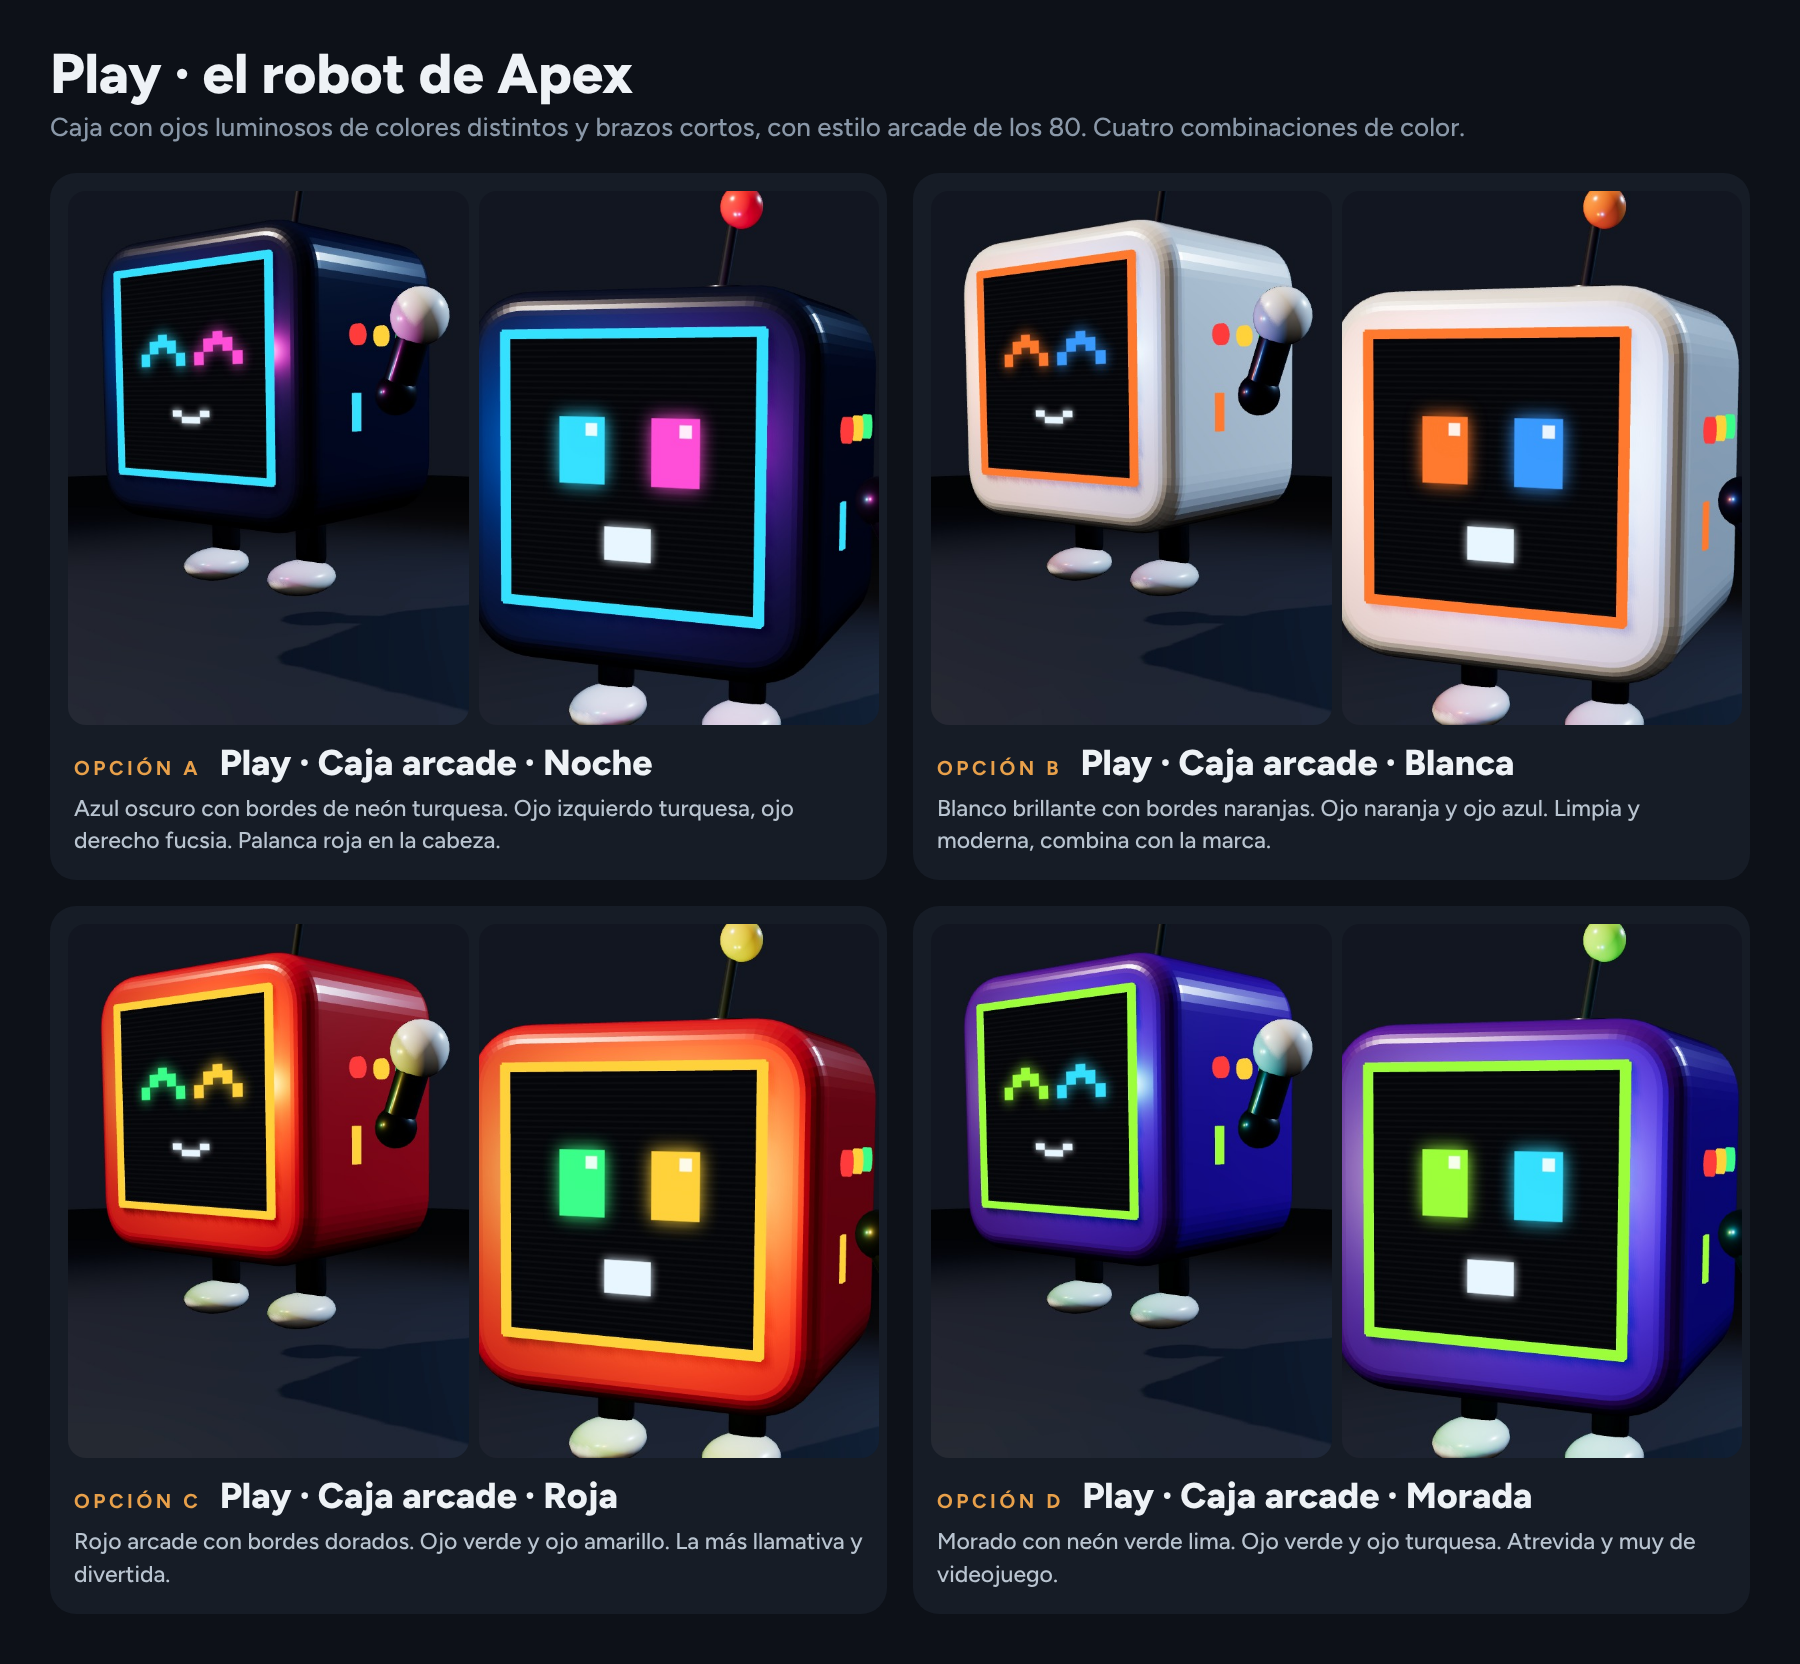
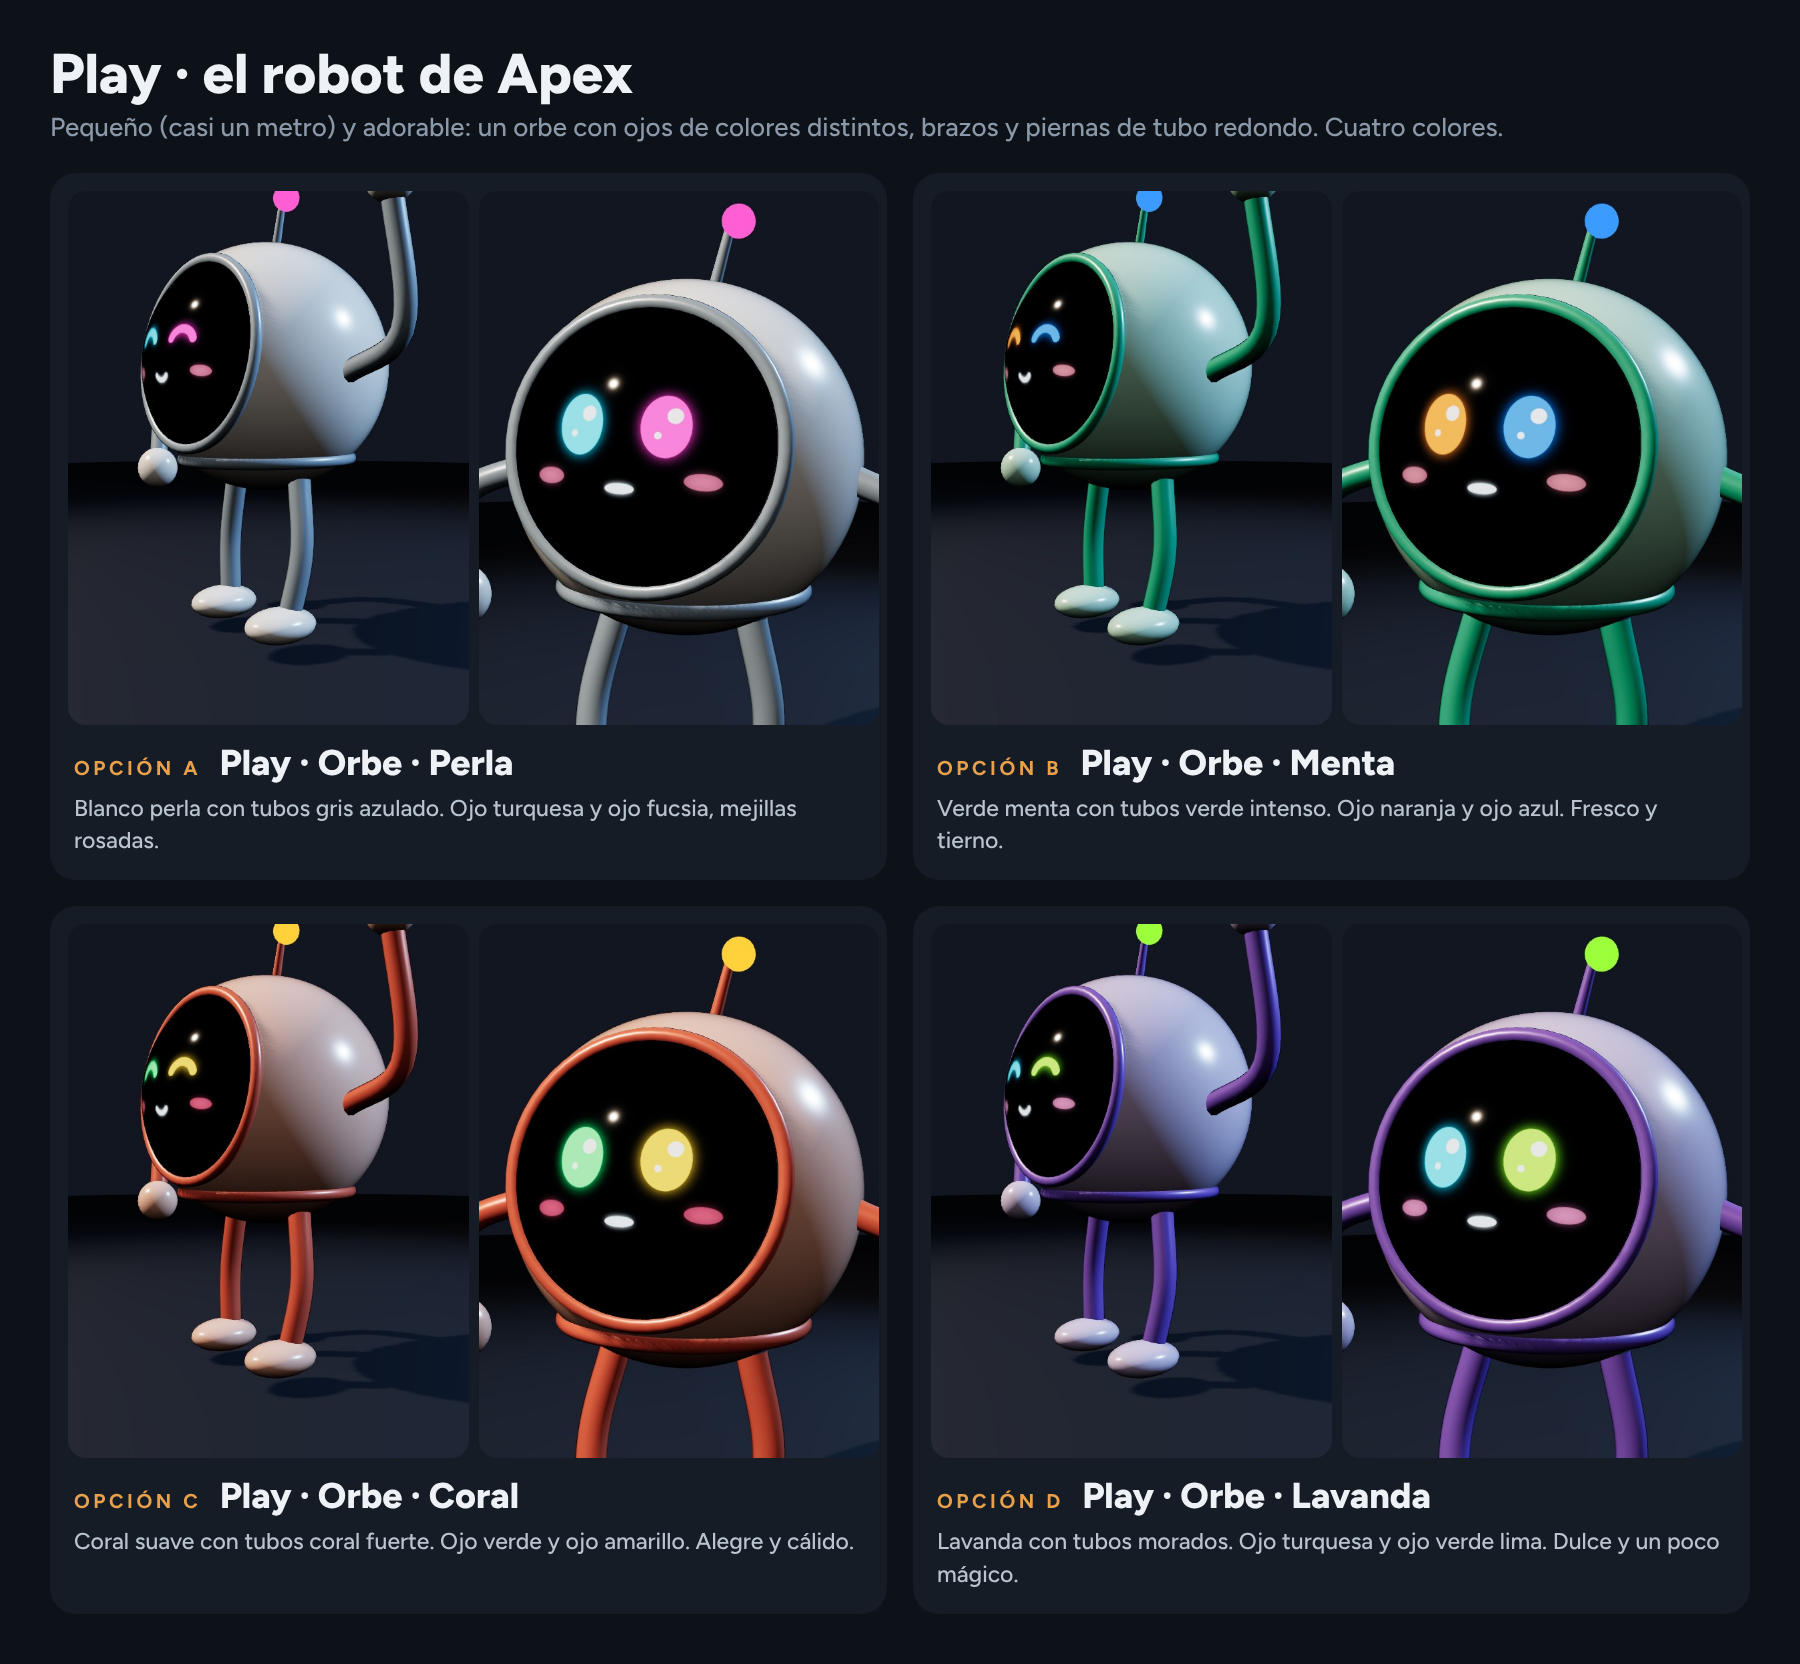
Robot «Play» como orbe pequeño y adorable: visor redondo, ojos de colores, brazos y piernas de tubo
Claude-Session: https://claude.ai/code/session_016r3h3eddn8zLcxunDkNv4C

diff --git a/produccion/redes/voxel/robot3d.js b/produccion/redes/voxel/robot3d.js
@@ -192,3 +192,53 @@ function robotPlayCaja(cfg = {}) {
     palo.rotation.z = Math.sin(t * 2.4) * 0.25; bola.position.x = 0.08 - Math.sin(t * 2.4) * 0.04; luzI.intensity = luzD.intensity = 0.5 + (s.voz || 0) * 0.6; pantalla(t, s.gesto || "normal", s.voz || 0); }
   return { raiz, animar };
 }
+
+// F · «Orbe adorable»: Play pequeño (≈ 0,9 m). Cuerpo de esfera brillante, visor negro con dos ojos grandes de colores distintos,
+// brazos y piernas de tubo redondo que se doblan (estilo manguera), manos y pies redondos, antena corta con bolita.
+function robotPlayOrbe(cfg = {}) {
+  const c = Object.assign({ cuerpo: "#f4f5f7", acento: "#9fb4c8", ojoI: "#36e0ff", ojoD: "#ff5fd2", mejillas: "#ff8fb3" }, cfg);
+  const raiz = new THREE.Group(), cuerpo = new THREE.Group(); raiz.add(cuerpo); const P = PLAY.P, A = PLAY.malla;
+  const mC = P(c.cuerpo, 0.25, 0.02, 1), mA = P(c.acento, 0.3, 0.1, 1);
+  const Y = 0.58, R = 0.27;                                            // centro y radio del orbe
+  A(cuerpo, new THREE.SphereGeometry(R, 64, 48), mC, 0, Y, 0);
+  const yb = 0.2, aro = A(cuerpo, new THREE.TorusGeometry(Math.sqrt(R * R - yb * yb) + 0.004, 0.013, 12, 64), mA, 0, Y - yb, 0); aro.rotation.x = PI / 2;
+  // visor y cara
+  const cv = document.createElement("canvas"); cv.width = 512; cv.height = 512; const g = cv.getContext("2d"), tex = new THREE.CanvasTexture(cv); tex.colorSpace = THREE.SRGBColorSpace;
+  const capa = new THREE.SphereGeometry(R * 1.006, 56, 28, 0, 2 * PI, 0, PI * 0.26); capa.rotateX(PI / 2);
+  { const pz = capa.attributes.position, uv = capa.attributes.uv, k = R * 1.006 * Math.sin(PI * 0.26); for (let i = 0; i < pz.count; i++) uv.setXY(i, pz.getX(i) / (2 * k) + 0.5, pz.getY(i) / (2 * k) + 0.5); uv.needsUpdate = true; }
+  const caraG = new THREE.Group(); caraG.position.set(0, Y, 0); caraG.rotation.x = -0.14; cuerpo.add(caraG);
+  const visor = A(caraG, capa, new THREE.MeshPhysicalMaterial({ map: tex, emissiveMap: tex, emissive: 0xffffff, emissiveIntensity: 1.05, color: 0x050608, roughness: 0.05, clearcoat: 1 }), 0, 0, 0);
+  const borde = A(caraG, new THREE.TorusGeometry(R * 1.006 * Math.sin(PI * 0.26), 0.012, 10, 56), mA, 0, 0, R * 1.006 * Math.cos(PI * 0.26));
+  function cara(t, gesto, voz) {
+    g.fillStyle = "#040507"; g.fillRect(0, 0, 512, 512); const parp = (t % 3.3) < 0.12, cy = 230;
+    [[180, c.ojoI, -1], [332, c.ojoD, 1]].forEach(([x, col, d]) => { g.save(); g.shadowColor = col; g.shadowBlur = 30; g.fillStyle = col; g.strokeStyle = col; g.lineWidth = 22; g.lineCap = "round";
+      if (parp) { g.beginPath(); g.moveTo(x - 38, cy); g.lineTo(x + 38, cy); g.stroke(); }
+      else if (gesto === "feliz" || (gesto === "guiño" && d > 0)) { g.beginPath(); g.arc(x, cy + 22, 40, PI * 1.12, PI * 1.88); g.stroke(); }
+      else { const ry = gesto === "enfoca" ? 26 : 52; g.beginPath(); g.ellipse(x, cy, 42, ry, 0, 0, 2 * PI); g.fill();
+        g.shadowBlur = 0; g.fillStyle = "rgba(255,255,255,.95)"; g.beginPath(); g.arc(x + 14, cy - ry * 0.35, 13, 0, 2 * PI); g.fill(); g.beginPath(); g.arc(x - 12, cy + ry * 0.3, 6, 0, 2 * PI); g.fill(); }
+      g.restore(); });
+    g.save(); g.fillStyle = c.mejillas; g.globalAlpha = 0.55; g.shadowColor = c.mejillas; g.shadowBlur = 20; [[118, 318], [394, 318]].forEach(([x, y]) => { g.beginPath(); g.ellipse(x, y, 30, 14, 0, 0, 2 * PI); g.fill(); }); g.restore();
+    g.save(); g.strokeStyle = "#e9f6ff"; g.fillStyle = "#e9f6ff"; g.shadowColor = "#e9f6ff"; g.shadowBlur = 12; g.lineWidth = 12; g.lineCap = "round";
+    if (voz > 0.05) { g.beginPath(); g.ellipse(256, 336, 26, 8 + 18 * voz * Math.abs(Math.sin(t * 15)), 0, 0, 2 * PI); g.fill(); } else { g.beginPath(); g.arc(256, 314, 28, PI * 0.2, PI * 0.8); g.stroke(); }
+    g.restore(); tex.needsUpdate = true; }
+  // antena corta con bolita
+  A(cuerpo, new THREE.CylinderGeometry(0.008, 0.01, 0.09, 8), mA, 0.05, Y + R + 0.03, 0).rotation.z = -0.25; const bola = A(cuerpo, new THREE.SphereGeometry(0.025, 16, 12), new THREE.MeshBasicMaterial({ color: c.ojoD, toneMapped: false }), 0.075, Y + R + 0.085, 0);
+  // brazos y piernas de tubo que se doblan: se reconstruyen cada cuadro sobre una curva suave
+  const mT = P(c.acento, 0.3, 0.15, 1), mM = P(c.cuerpo, 0.25, 0.02, 1);
+  const tubos = [0, 1, 2, 3].map(() => { const m = new THREE.Mesh(new THREE.BufferGeometry(), mT); m.castShadow = true; cuerpo.add(m); return m; });
+  const manos = [-1, 1].map(() => A(cuerpo, new THREE.SphereGeometry(0.05, 20, 14), mM)), pies = [-1, 1].map(() => { const p = A(cuerpo, new THREE.SphereGeometry(0.062, 20, 14), mM); p.scale.set(1, 0.6, 1.35); return p; });
+  const tubo = (m, pts, r) => { m.geometry.dispose(); m.geometry = new THREE.TubeGeometry(new THREE.CatmullRomCurve3(pts.map((p) => new THREE.Vector3(...p))), 20, r, 10, false); };
+  function animar(t, s = {}) {
+    const rebote = Math.abs(Math.sin(t * 3.2)) * 0.025; cuerpo.position.y = rebote; cuerpo.rotation.z = Math.sin(t * 1.6) * 0.04;
+    [-1, 1].forEach((d, i) => {   // brazos: salen de los lados del orbe y se curvan como manguera
+      const saluda = s.saluda && d > 0, ox = d * R * 0.95, oy = Y - 0.02;
+      const fin = saluda ? [d * 0.42, Y + 0.3 + Math.sin(t * 8) * 0.03, 0.05] : [d * 0.36, Y - 0.22 + Math.sin(t * 2.4 + i) * 0.02, 0.06];
+      const med = saluda ? [d * 0.42, Y + 0.05, 0.02] : [d * 0.38, Y - 0.08, 0.02];
+      tubo(tubos[i], [[ox, oy, 0], med, fin], 0.022); manos[i].position.set(...fin);
+      const paso = Math.sin(t * 3.2 + i * PI) * 0.03, cad = [d * 0.11, Y - R * 0.9, 0], pie = [d * 0.13, 0.04, 0.03 + paso];   // piernas cortas
+      tubo(tubos[2 + i], [cad, [d * 0.14, (cad[1] + pie[1]) / 2, 0.01 + paso * 0.5], pie], 0.025); pies[i].position.set(pie[0], pie[1], pie[2] + 0.02);
+    });
+    bola.scale.setScalar(0.85 + 0.3 * Math.abs(Math.sin(t * 3))); cara(t, s.gesto || "normal", s.voz || 0);
+  }
+  return { raiz, animar };
+}

diff --git a/produccion/redes/voxel/robot.py b/produccion/redes/voxel/robot.py
@@ -5,10 +5,10 @@ AQUI = os.path.dirname(os.path.abspath(__file__)) + "/"
 _spec = importlib.util.spec_from_file_location("motor", AQUI + "../heroes/hacer.py"); motor = importlib.util.module_from_spec(_spec); _spec.loader.exec_module(motor)
 RAIZ = motor.RAIZ; SALIDA = RAIZ + "entregables/redes/bocetos/"; THREE = motor.TRABAJO + "three/package/build/three.min.js"
 OPCIONES = [
-    dict(fn="robotPlayCaja", cfg=dict(cuerpo="#1b2440", borde="#36e0ff", ojoI="#36e0ff", ojoD="#ff4fd8", bola="#ff3b3b"), letra="A", nombre="Caja arcade · Noche", desc="Azul oscuro con bordes de neón turquesa. Ojo izquierdo turquesa, ojo derecho fucsia. Palanca roja en la cabeza.", cara=0.82, alto=0.62),
-    dict(fn="robotPlayCaja", cfg=dict(cuerpo="#f3f3f5", borde="#ff7a2e", ojoI="#ff7a2e", ojoD="#3b9bff", bola="#ff7a2e"), letra="B", nombre="Caja arcade · Blanca", desc="Blanco brillante con bordes naranjas. Ojo naranja y ojo azul. Limpia y moderna, combina con la marca.", cara=0.82, alto=0.62),
-    dict(fn="robotPlayCaja", cfg=dict(cuerpo="#d6312b", borde="#ffd23b", ojoI="#3bff8a", ojoD="#ffd23b", bola="#ffd23b"), letra="C", nombre="Caja arcade · Roja", desc="Rojo arcade con bordes dorados. Ojo verde y ojo amarillo. La más llamativa y divertida.", cara=0.82, alto=0.62),
-    dict(fn="robotPlayCaja", cfg=dict(cuerpo="#5b2ca8", borde="#9dff3b", ojoI="#9dff3b", ojoD="#36e0ff", bola="#9dff3b"), letra="D", nombre="Caja arcade · Morada", desc="Morado con neón verde lima. Ojo verde y ojo turquesa. Atrevida y muy de videojuego.", cara=0.82, alto=0.62),
+    dict(fn="robotPlayOrbe", cfg=dict(cuerpo="#f4f5f7", acento="#9fb4c8", ojoI="#36e0ff", ojoD="#ff5fd2", mejillas="#ff8fb3"), letra="A", nombre="Orbe · Perla", desc="Blanco perla con tubos gris azulado. Ojo turquesa y ojo fucsia, mejillas rosadas.", cara=0.6, alto=0.42),
+    dict(fn="robotPlayOrbe", cfg=dict(cuerpo="#bff0df", acento="#3fbf9a", ojoI="#ff9a3c", ojoD="#3b9bff", mejillas="#ff9fb0"), letra="B", nombre="Orbe · Menta", desc="Verde menta con tubos verde intenso. Ojo naranja y ojo azul. Fresco y tierno.", cara=0.6, alto=0.42),
+    dict(fn="robotPlayOrbe", cfg=dict(cuerpo="#ffc9b8", acento="#e8705a", ojoI="#3bff8a", ojoD="#ffd23b", mejillas="#ff6f8f"), letra="C", nombre="Orbe · Coral", desc="Coral suave con tubos coral fuerte. Ojo verde y ojo amarillo. Alegre y cálido.", cara=0.6, alto=0.42),
+    dict(fn="robotPlayOrbe", cfg=dict(cuerpo="#d9cdf7", acento="#8a6ad8", ojoI="#36e0ff", ojoD="#9dff3b", mejillas="#ff9fd0"), letra="D", nombre="Orbe · Lavanda", desc="Lavanda con tubos morados. Ojo turquesa y ojo verde lima. Dulce y un poco mágico.", cara=0.6, alto=0.42),
 ]
 
 def pagina(W):
@@ -20,7 +20,7 @@ body{{margin:0;background:#0d1118;color:#eef2f6;font-family:Figtree;width:1800px
 .g{{display:grid;grid-template-columns:repeat(2,1fr);gap:26px;padding:0 50px 50px}} .t{{background:#161c26;border-radius:26px;padding:18px 18px 24px}}
 .fotos{{display:flex;gap:10px}} .fotos img{{width:50%;border-radius:18px}} h2{{font:800 36px Figtree;margin:16px 6px 0}} h2 span{{font:700 20px Figtree;letter-spacing:.18em;text-transform:uppercase;color:#e8a04a;margin-right:10px}}
 p{{font:500 23px/1.4 Figtree;color:#b9c4d0;margin:8px 6px 0}}</style></head><body>
-<h1>Play · el robot de Apex</h1><div class="sub">Caja con ojos luminosos de colores distintos y brazos cortos, con estilo arcade de los 80. Cuatro combinaciones de color.</div><div class="g">{tarjetas}</div>
+<h1>Play · el robot de Apex</h1><div class="sub">Pequeño (casi un metro) y adorable: un orbe con ojos de colores distintos, brazos y piernas de tubo redondo. Cuatro colores.</div><div class="g">{tarjetas}</div>
 <canvas id="lienzo" width="600" height="800" style="display:none"></canvas>
 <script src="file://{THREE}"></script>
 <script>const PI = Math.PI; const OPS = {json.dumps(OPCIONES, ensure_ascii=False)};
@@ -37,7 +37,7 @@ OPS.forEach((o) => {{
   const R = window[o.fn](o.cfg || {{}}); ESC.add(R.raiz); llave.target = R.raiz; contra.target = R.raiz;
   R.animar(1.7, {{ saluda: true, gesto: "feliz" }}); CAM.fov = 34; CAM.position.set(1.5, 1.3 * o.alto, 2.9 * o.alto); CAM.lookAt(0, 0.95 * o.alto, 0); CAM.updateProjectionMatrix();
   REN.render(ESC, CAM); document.getElementById("a" + o.letra).src = REN.domElement.toDataURL("image/jpeg", 0.92);
-  R.animar(2.3, {{ gesto: "normal", voz: 0.8, mira: 0.25 }}); CAM.fov = 30; CAM.position.set(0.75, o.cara + 0.15, 1.95); CAM.lookAt(0, o.cara, 0); CAM.updateProjectionMatrix();
+  R.animar(2.3, {{ gesto: "normal", voz: 0.8, mira: 0.25 }}); CAM.fov = 30; CAM.position.set(0.5, o.cara + 0.1, 1.45); CAM.lookAt(0, o.cara, 0); CAM.updateProjectionMatrix();
   REN.render(ESC, CAM); document.getElementById("b" + o.letra).src = REN.domElement.toDataURL("image/jpeg", 0.92); ESC.remove(R.raiz);
 }});
 </script></body></html>'''
